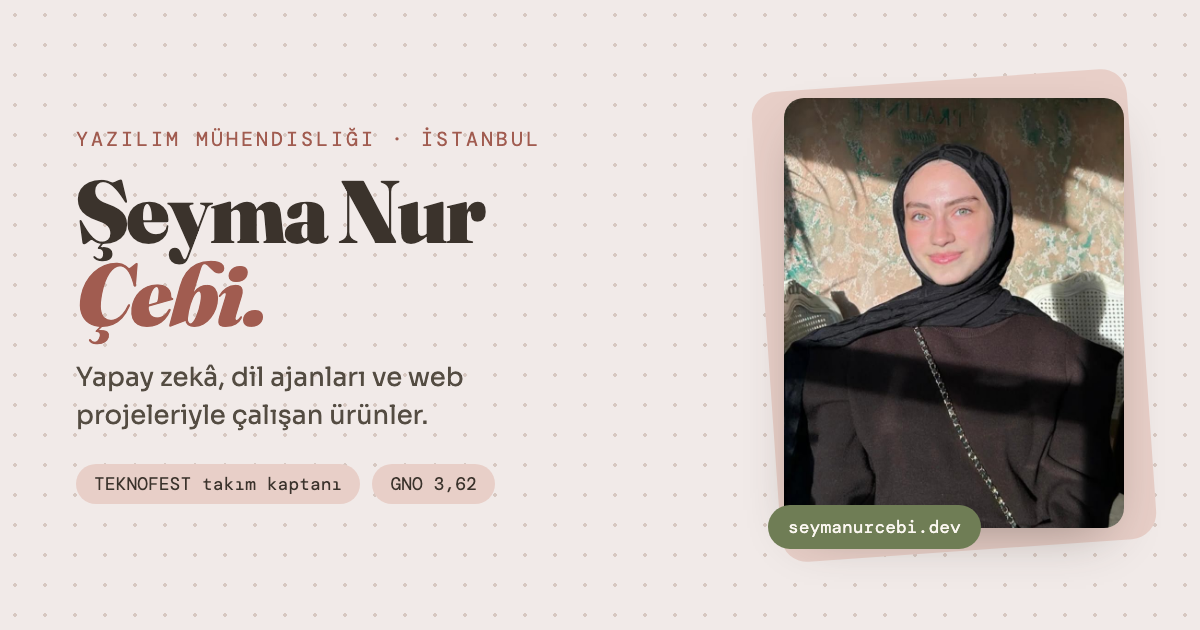
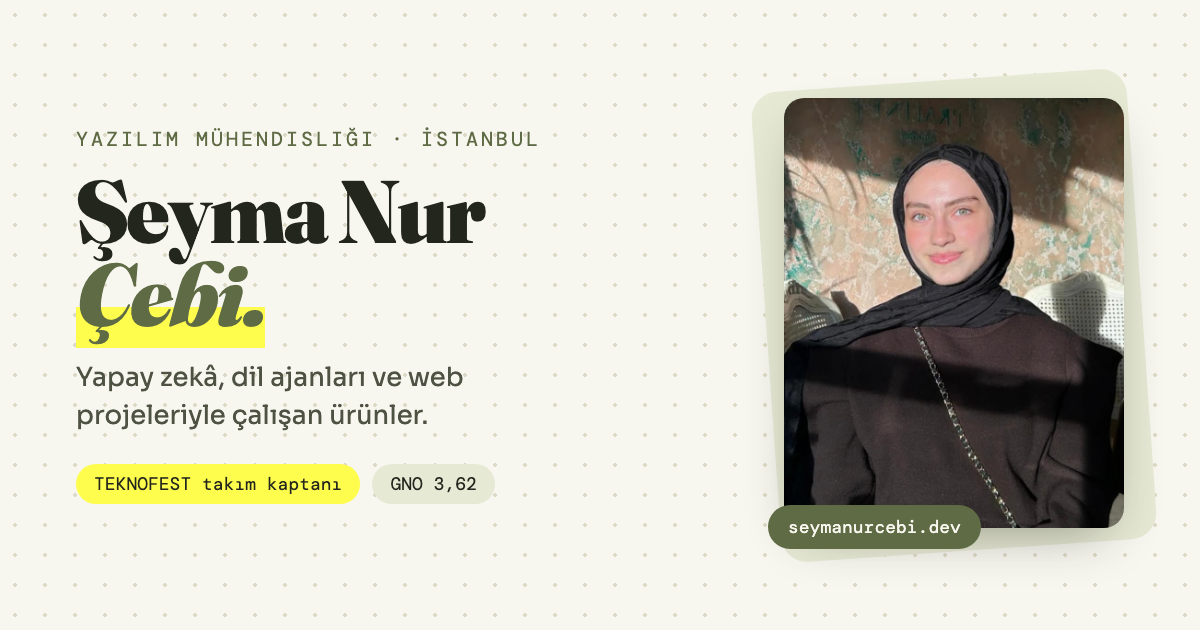
Yeni kimlik: limon & adaçayı paleti, sayfa geçişleri, alt sosyal bar
RENK
- Palet #fefd4d (limon) ve #acb794 (adaçayı) üzerine kuruldu; pudra gül kaldırıldı
- Açık tema: kâğıt zemin + derin adaçayı vurgu (5,3:1) + limon işaretleyici dolgu
  · limon yalnızca DOLGU olarak kullanılıyor, üstünde koyu yazı (14,2:1)
  · hero'da soyada fosforlu kalem izi, müsaitlik ve GNO rozetleri limon
- Gece tema: derin zeytin zemin + limon vurgu (15,9:1) — marker gecede kapalı,
  yoksa sarı üstüne sarı yazı okunmuyordu
- Yıldız ışıltısı limon-adaçayı tonlarına geçti; og.png yeni paletle yenilendi

GEÇİŞ
- Sayfalar arası yumuşak kayarak açılma (View Transitions kök animasyonu)
- Hareket azaltma tercihinde geçiş kapalı

HER SAYFADA
- Alt bilgide GitHub · LinkedIn · E-posta · CV bağlantı satırı

diff --git a/src/styles/global.css b/src/styles/global.css
@@ -10,50 +10,53 @@
 /* ---------- GÜNDÜZ (light) ---------- */
 :root,
 :root[data-mode="light"] {
-  --bg: #f1eae8;
-  --panel: #ece0dd;
-  /* vurgular canlandırıldı: soluk mauve/adaçayı yerine daha doygun,
-     kontrastı geçen tonlar (eski: #b98a82 / #9e6e66 / #9fa98c) */
-  --accent: #a15c50;      /* derin gül */
-  --accentD: #854a3f;
-  --accent2: #6f7d55;     /* adaçayı */
-  --peach: #e8cfc8;
-  --ink: #3b332c;
-  --body: #4a4038;
-  /* ikincil metin koyulaştırıldı ki başarılar öne çıksın (eski: #6e6357/#6a6054) */
-  --muted: #5c5348;
-  --muted2: #544c42;
-  --faint: #6e6357;
-  --faint2: #8a7867;
-  --border: #e4d8d4;
-  --onaccent: #fbf7f1;
-  --field: #fbf7f1;
-  --dot: #d7c8c1;
-  --shadow: 0 6px 20px -8px rgba(59, 51, 44, 0.18);
-  --shadow-sm: 0 2px 8px -3px rgba(59, 51, 44, 0.14);
+  /* LİMON & ADAÇAYI — kâğıt zemin, derin adaçayı vurgu, limon işaretleyici */
+  --bg: #f7f6ef;
+  --panel: #eeece0;
+  --accent: #5f6b45;      /* derin adaçayı — düğme, bağlantı, aktif menü */
+  --accentD: #4a5436;
+  --accent2: #7d8a5f;     /* orta adaçayı — sayı ve rozet metni */
+  --sage: #acb794;        /* açık adaçayı — dekoratif dolgu */
+  --highlight: #fefd4d;   /* limon — yalnızca DOLGU; üstüne koyu yazı gelir */
+  --peach: #e6e9d4;       /* yumuşak adaçayı yıkaması (eski şeftali yerine) */
+  --ink: #23261c;
+  --body: #3a3d30;
+  --muted: #55594a;
+  --muted2: #4e5243;
+  --faint: #6b6f5e;
+  --faint2: #8a8f76;
+  --border: #e2e0d0;
+  --onaccent: #f9f8f0;    /* koyu adaçayı üstündeki yazı */
+  --onhighlight: #23261c; /* limon üstündeki yazı */
+  --field: #fdfdf7;
+  --dot: #dcdac6;
+  --shadow: 0 6px 20px -8px rgba(35, 38, 28, 0.20);
+  --shadow-sm: 0 2px 8px -3px rgba(35, 38, 28, 0.16);
 }
 
 /* ---------- GECE (dark) ---------- */
 :root[data-mode="dark"] {
-  --bg: #211a19;
-  --panel: #2b2220;
-  --accent: #cda69d;
-  --accentD: #b98a82;
-  --accent2: #a9b39c;
-  --peach: #3a2b29;
-  --ink: #f4ecea;
-  --body: #e4d8d5;
-  --muted: #b8a9a5;
-  --muted2: #a2938f;
-  /* soluk tonlar WCAG AA için açıldı (eski: #8a7c78/#5c4e4a) */
-  --faint: #998b84;
-  --faint2: #82736d;
-  --border: #3a2e2c;
-  --onaccent: #231917;
-  --field: #241b19;
-  --dot: #372b29;
-  --shadow: 0 8px 24px -8px rgba(0, 0, 0, 0.5);
-  --shadow-sm: 0 2px 10px -3px rgba(0, 0, 0, 0.45);
+  --bg: #1a1c16;
+  --panel: #23261e;
+  --accent: #e8e86a;      /* limon — gecede vurgu rengi olur */
+  --accentD: #fefd4d;
+  --accent2: #acb794;
+  --sage: #acb794;
+  --highlight: #fefd4d;
+  --peach: #2e3226;
+  --ink: #f2f3e9;
+  --body: #dfe1d4;
+  --muted: #b9bda9;
+  --muted2: #a8ad96;
+  --faint: #9aa088;
+  --faint2: #848a72;
+  --border: #333829;
+  --onaccent: #1a1c16;    /* limon düğme üstünde koyu yazı */
+  --onhighlight: #1a1c16;
+  --field: #1f221a;
+  --dot: #2f3327;
+  --shadow: 0 8px 24px -8px rgba(0, 0, 0, 0.55);
+  --shadow-sm: 0 2px 10px -3px rgba(0, 0, 0, 0.5);
 }
 
 :root {
@@ -831,6 +834,25 @@ input::placeholder, textarea::placeholder { color: var(--faint); }
 }
 
 /* =============== FOOTER =============== */
+.footer-social {
+  display: flex;
+  align-items: center;
+  gap: 8px;
+  flex-wrap: wrap;
+  font-family: var(--font-mono);
+  font-size: 12px;
+}
+.footer-social a { color: var(--accent); }
+.footer-social span { color: var(--faint2); }
+.sidebar-wrap { display: contents; }
+
+/* sayfa geçişleri: içerik yumuşakça kayarak gelsin */
+@media (prefers-reduced-motion: no-preference) {
+  ::view-transition-old(root) { animation: vt-out 0.22s ease both; }
+  ::view-transition-new(root) { animation: vt-in 0.28s cubic-bezier(0.22, 1, 0.36, 1) both; }
+}
+@keyframes vt-out { to { opacity: 0; } }
+@keyframes vt-in { from { opacity: 0; transform: translateY(10px); } }
 .footer-views {
   font-family: var(--font-mono);
   font-size: 11.5px;
@@ -954,4 +976,36 @@ footer {
   .page { padding: 24px 0; }
   .photo-badge { background: none; color: var(--body); border: 1px solid var(--border); }
   .cert-card, .tl-item, .project-row { break-inside: avoid; }
+}
+
+/* =============== LİMON VURGULARI =============== */
+/* Sarı yalnızca DOLGU olarak kullanılır; üstüne her zaman koyu yazı gelir. */
+
+/* hero'da soyadın altına fosforlu kalem izi — YALNIZCA açık temada.
+   Gece modunda yazının kendisi zaten limon; sarı üstüne sarı okunmaz. */
+:root[data-mode="light"] .home h1 em {
+  background-image: linear-gradient(transparent 62%, var(--highlight) 62%);
+  padding-inline: 2px;
+}
+
+/* müsaitlik rozeti */
+.profile-avail {
+  background: var(--highlight);
+  color: var(--onhighlight);
+}
+.avail-dot { background: var(--accentD); box-shadow: none; }
+
+/* GNO rozeti ve akademik künye sayıları */
+.tl-badge {
+  background: var(--highlight);
+  color: var(--onhighlight);
+  border-color: transparent;
+}
+
+/* yarışma vitrinindeki puan kartı */
+.hl-score { border-inline-start: 4px solid var(--highlight); }
+
+/* çip üstüne gelince limon */
+@media (hover: hover) {
+  .chip:hover { background: var(--highlight); color: var(--onhighlight); border-color: transparent; }
 }
